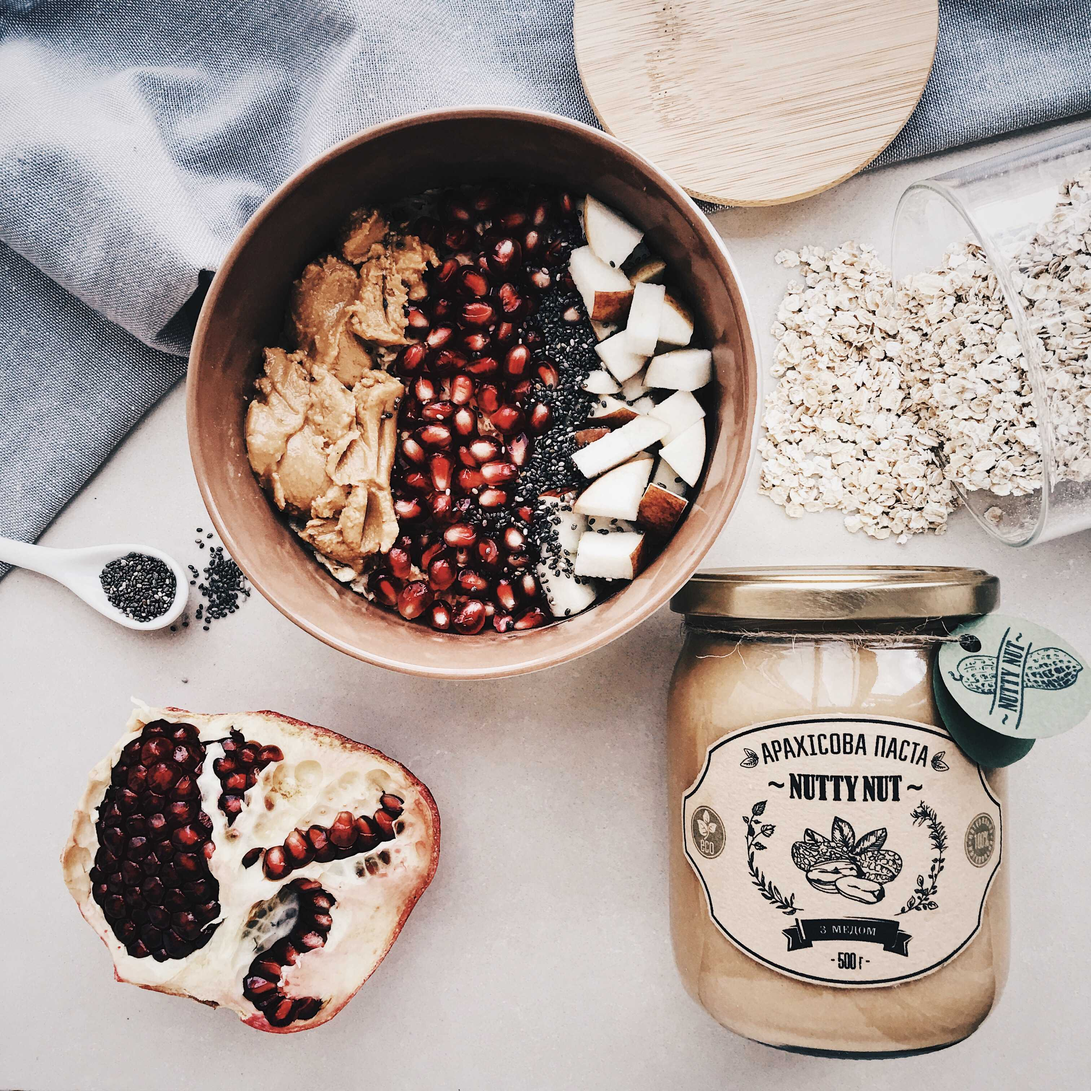
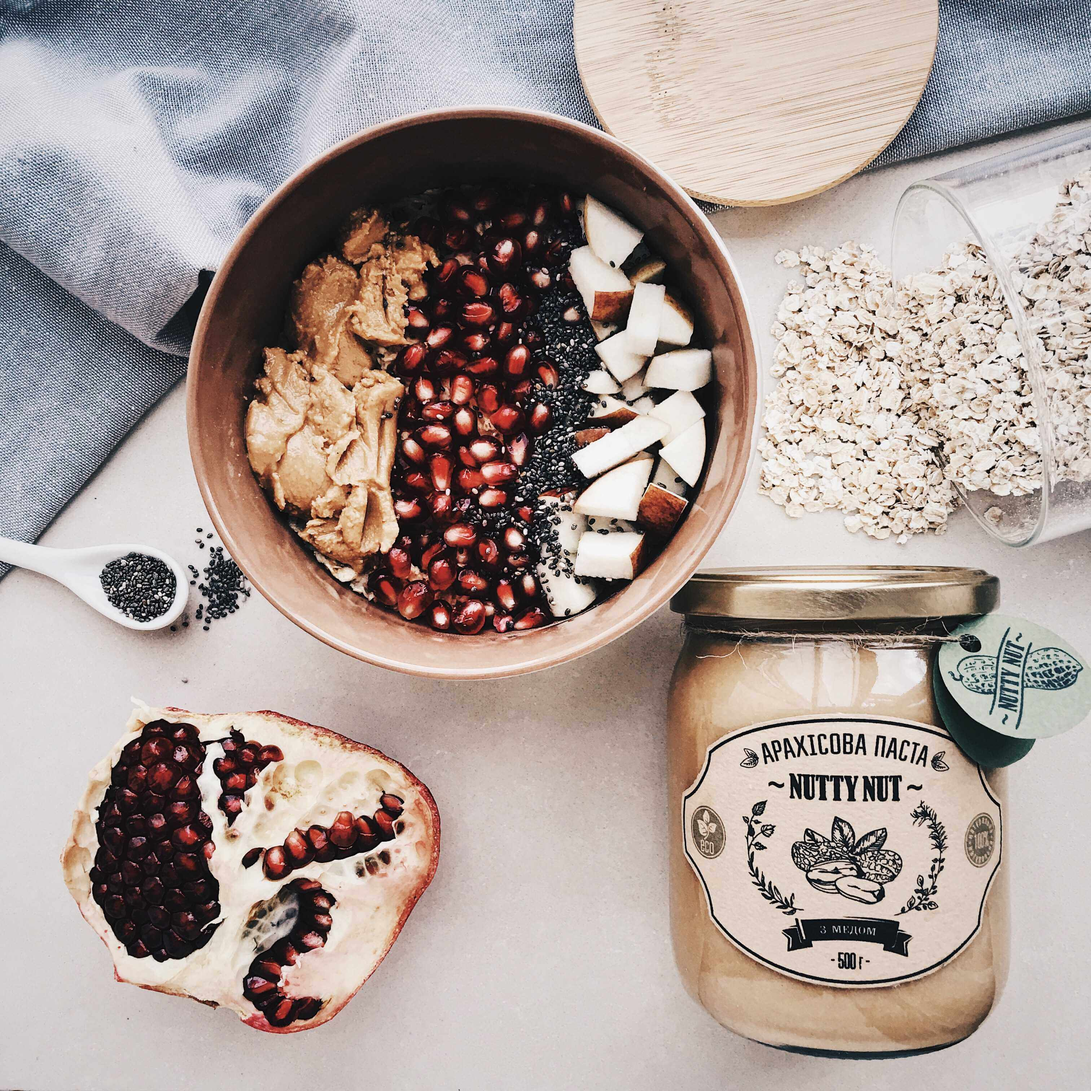
optimized the size of images

diff --git a/client/src/app/components/gallery/gallery.component.ts b/client/src/app/components/gallery/gallery.component.ts
@@ -16,8 +16,8 @@ export class GalleryComponent implements OnInit {
     new Image('../assets/images/gallery/0041.jpg'),
     new Image('../assets/images/gallery/0051.jpg'),
     new Image('../assets/images/bg-main.jpg'),
-    new Image('../assets/images/gallery/0071.jpg'),
-    new Image('../assets/images/gallery/0081.jpg'),
+    new Image('../assets/images/bg-read-more.jpg'),
+    new Image('../assets/images/gallery/0021.jpg'),
   ];
   
   constructor() { }
